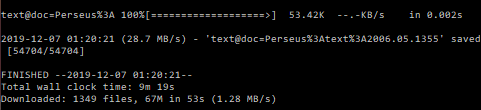
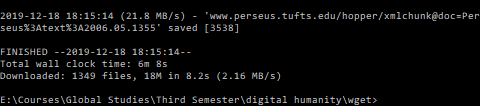
new result

diff --git a/_posts/2019-12-07-L06-post.md b/_posts/2019-12-07-L06-post.md
@@ -8,7 +8,7 @@ Steps
 
 1. Download page "http://www.perseus.tufts.edu/hopper/collection?collection=Perseus:collection:RichTimes", the open it with Sublime Text, and use Regex "href="text\?doc=Perseus%3atext%3a2006.05.[0-9]{4}" to copy\paste all relevant urls into links.txt. 
 
-2. Open links.txt with Sublime Text, then replace all "href=""with "http://www.perseus.tufts.edu/hopper/", and save links.text.
+2. Open links.txt with Sublime Text, then replace all "href="text" with "http://www.perseus.tufts.edu/hopper/xmlchunk", and save links.text.
 
 3. Open cmd.exe, then go to the folder for saving the files to be downloaded, and use "wget -i links.txt -p ./download/ -nc" to download all the files. 
 
